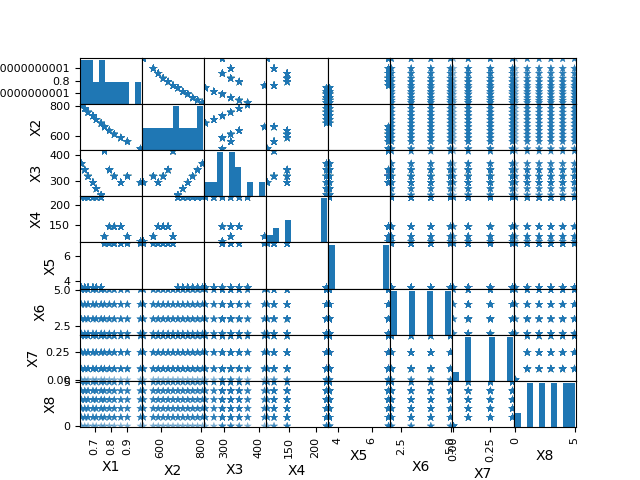
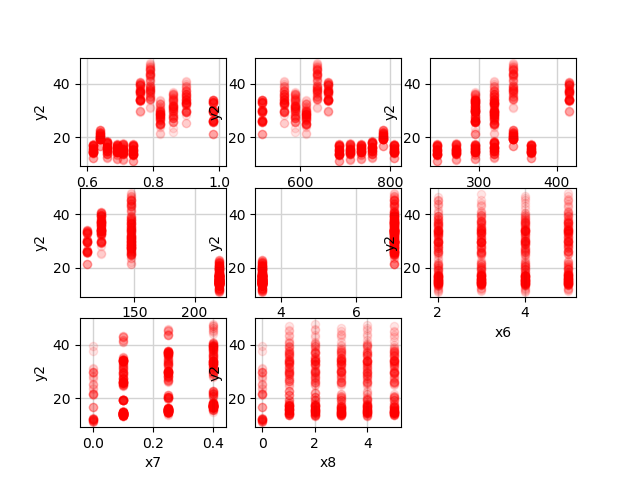
Now can print both outputs in input-otput

diff --git a/Data.py b/Data.py
@@ -9,7 +9,7 @@ class Data:
     x = None                        #Input values in dataframe
     y = None                        #Output values in dataframe
     df = None                       #Full dataframe
-    fig = plt.figure()              #matplotlib figure
+    fig = None                      #matplotlib figure
     InputOutputVariables = []       #Names of the variables of the data
 
     def __init__(self,df, InputOutputVariables):
@@ -23,18 +23,20 @@ class Data:
     def plotInputScatterMatrix(self):
         pd.plotting.scatter_matrix(self.x,alpha=0.2,marker='*')
 
-    def plotData(self,x,y,subplotNumber):
+    def plotData(self,x,y,subplotNumber,yNumber):
         ax = self.fig.add_subplot(331+subplotNumber)
         ax.grid(color='lightgray', linestyle='-', linewidth=1)
         ax.set_axisbelow(True)
         ax.scatter(x, y,color='red', alpha=.1, s=140, marker='.')
         ax.set_xlabel('x'+str(subplotNumber+1))
-        ax.set_ylabel('y1')
+        ax.set_ylabel(yNumber)
         plt.savefig('plot_scatter2D.png')
 
     def plotAllInputOutput(self):
-        for i in range(8):
-            self.plotData(self.x_values[:,i],self.y_values[:,0],i)
+        for j in range(2):
+            self.fig = plt.figure()
+            for i in range(8):
+                self.plotData(self.x_values[:,i],self.y_values[:,j],i,"y"+str(j+1))
         plt.show()
     
     def splitDataToTrainAdndTest(self):

diff --git a/Train.py b/Train.py
@@ -5,13 +5,18 @@ class TrainingModel:
 
     train_x = None
     train_y = None
+    test_x = None
+    test_y = None
 
     def __init__(self,train_x, train_y, test_x, test_y):
         self.train_x = train_x
         self.train_y = train_y
+        self.test_x = test_x
+        self.test_y = test_y
 
     def trainViaLinearRegression(self):
         linreg = LinearRegression()
         linreg.fit(self.train_x,self.train_y)
-        y_hat = linreg.predict(self.train_x)
-        print('MSE = ', mean_squared_error(self.train_y,y_hat))
+        y_hat = linreg.predict(self.test_x)
+        print('MSE = ', mean_squared_error(self.test_y,y_hat))
+        return (self.train_x, linreg.predict(self.train_x))

diff --git a/main.py b/main.py
@@ -20,8 +20,8 @@ def trainData():
 
 loadData()
 trainData()
-#data.plotInputScatterMatrix()
-#data.plotAllInputOutput()
+data.plotInputScatterMatrix()
+data.plotAllInputOutput()
 
 
 
